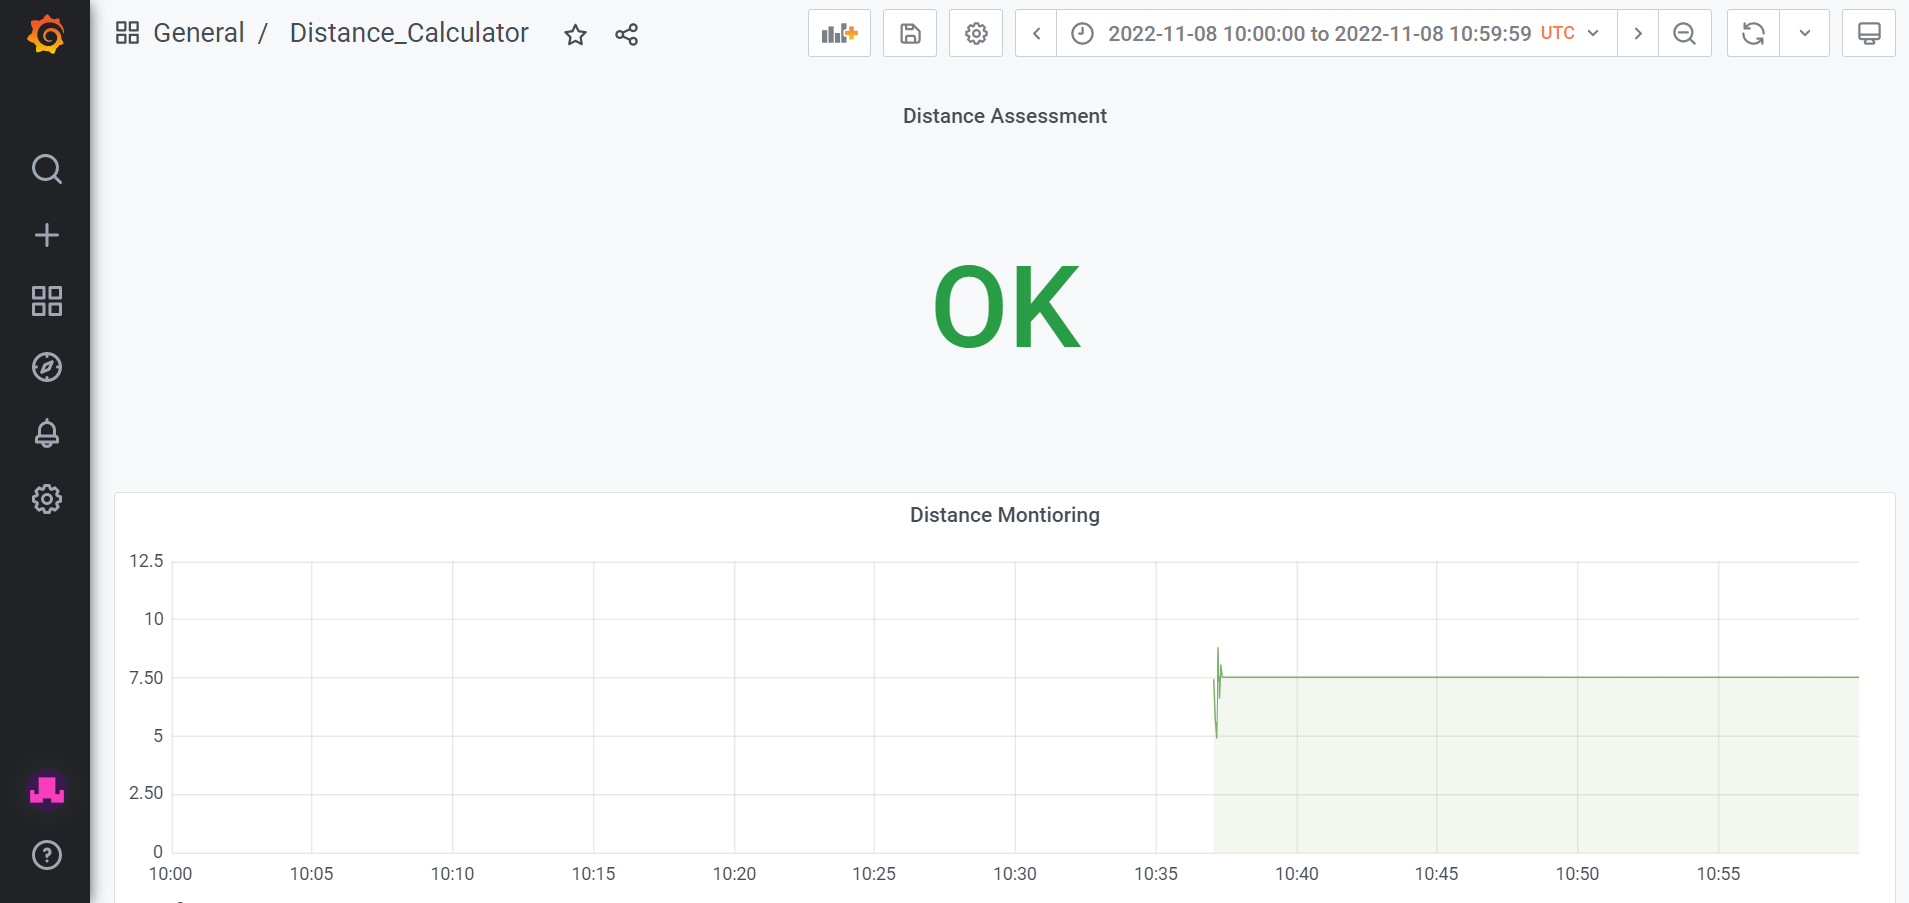
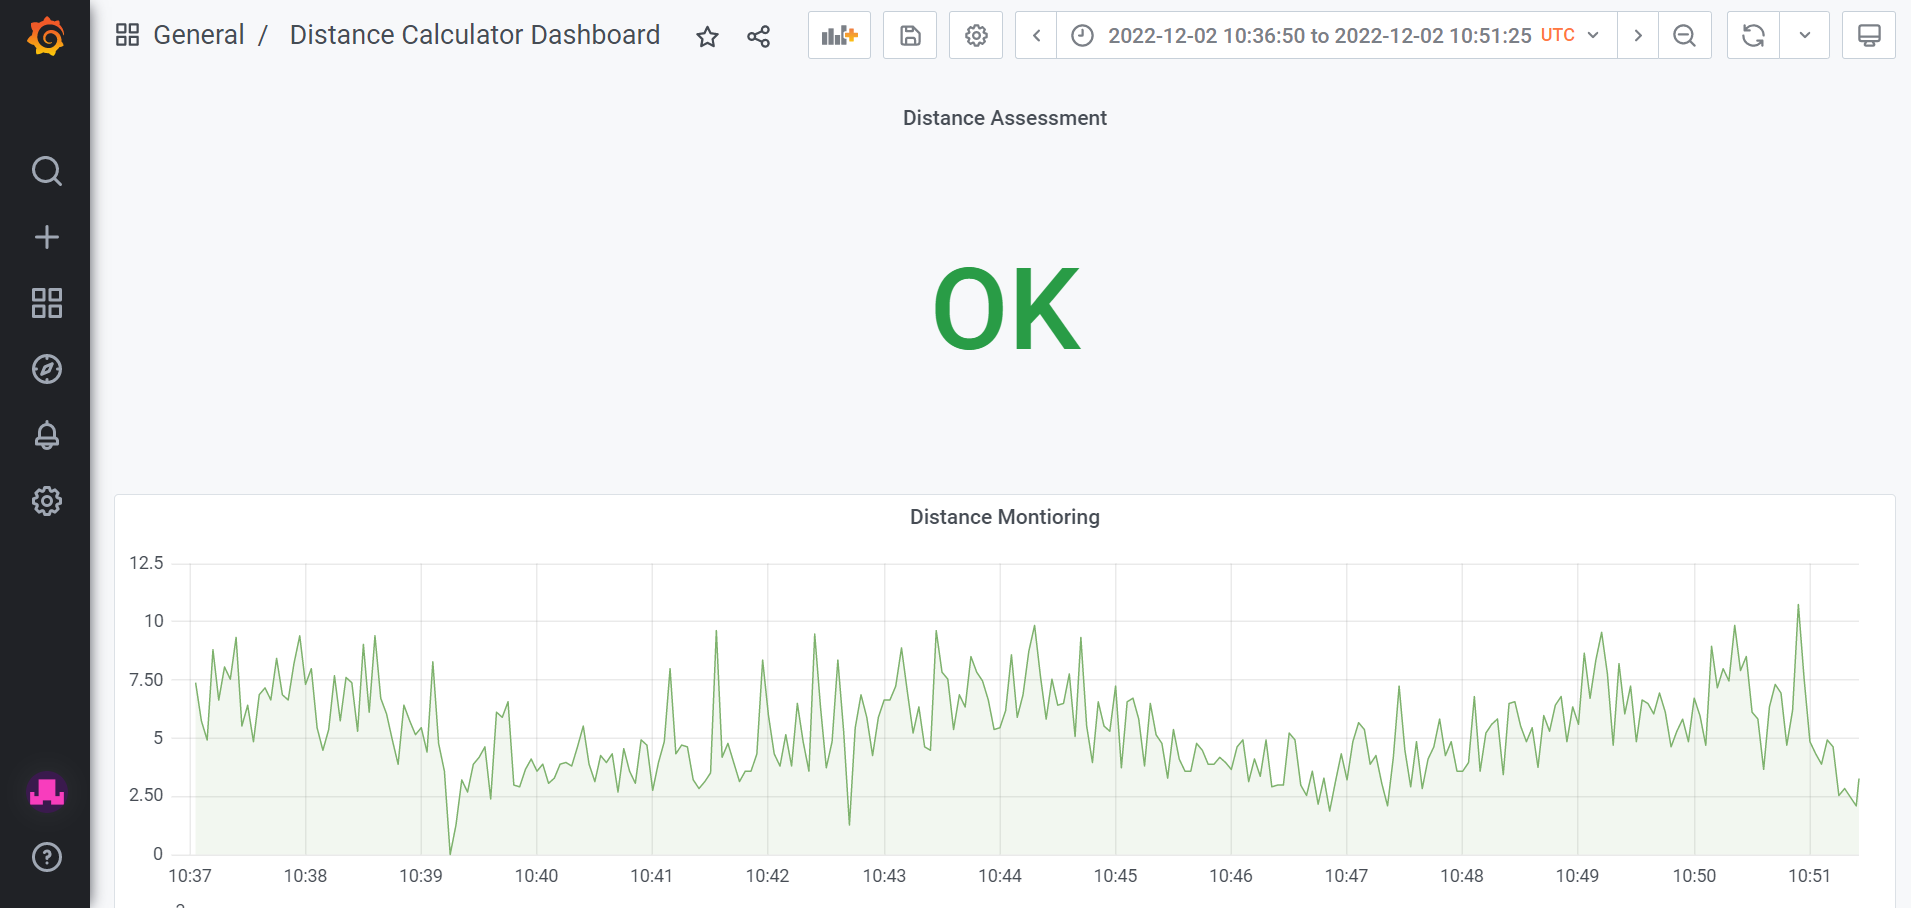
Distance calculator with helm (#14)

diff --git a/_posts/Demos/2022-11-11-distance-calculator.md b/_posts/Demos/2022-11-11-distance-calculator.md
@@ -52,39 +52,56 @@ This post demos how to make a distance calculator on Streaming Data Platform
 - SDP Running in a Cluster
 - Flink 1.15.2 runtime
 
-### Install using Helm chart
+### Setup distance calculator demo using Helm
+- The Helm charts for distance calculator demo is in
 ```
 cd sdp-starter-kit/distance-calculator/charts/
 ```
-- Edit and replace **flinkImage** variable in **calculator/values.yaml** with flink 1.15.2 runtime image name
+- Get all available runtime images using the below command.
 ```
 kubectl get runtimeimages -A
 ```
 ![setup15]({{site.baseurl}}/assets/heliumjk/images/post/distance-calculator-sdp/setup15.png)
 
-- Edit and replace **chartVersion** variable in **features/values.yaml** with tag
+  Update **flinkImage** variable in **calculator/values.yaml** with the runtime image name available for the flink version 1.15.2. 
+
+- Get **spec.values.image.tag** using below command.
 ```
-kubectl get projectfeature pravegamqttbroker -o jsonpath='{.spec.templates.pravegaMQTTBroker}'
+kubectl get projectfeature pravegamqttbroker --output="jsonpath={.spec.templates.pravegaMQTTBroker}"
 ```
 ![setup16]({{site.baseurl}}/assets/heliumjk/images/post/distance-calculator-sdp/setup16.png)
-- Install distance-calculator and mqtt-writer 
-```
-helm install features features/
-helm install calculator calculator/
-helm install mqttwriter mqttwriter/
-```
-- To visualize the grafana dashboard go to section **Get Influxdb Data Source** and **Adding Dashboard in Grafana**
 
-### Manual Install
+  Update **chartVersion** variable in **features/values.yaml** with **spec.values.image.tag**.
+- Deploy distance-calculator and mqtt-writer by running below script.
+```
+./deploy.sh <name_of_the_application>
+```
+  ex:- ./deploy.sh distance-calculator
 
-##### Compile distance-calculator project
+  Wait for few minutes until flink application starts
+- To visualize dashboard navigate to **Analytics** → **Your Project** → **Features**
+- Open **Metrics** endpoint
+![setup11]({{site.baseurl}}/assets/heliumjk/images/post/distance-calculator-sdp/setup11.png)
+- Hover on **Dashboard** and Click on **Manage**
+![setup12]({{site.baseurl}}/assets/heliumjk/images/post/distance-calculator-sdp/setup12.png)
+- Click on **Distance Calculataor Dashboard**
+![setup17]({{site.baseurl}}/assets/heliumjk/images/post/distance-calculator-sdp/setup17.png)
+- Below view can be observed
+![setup14]({{site.baseurl}}/assets/heliumjk/images/post/distance-calculator-sdp/setup14.png)
+
+  **Note:-** In case if you don't see any graph or button to **Zoom to Data**, Apply the time range of 10:37:00 to 11:00:00 for the current date
+![setup18]({{site.baseurl}}/assets/heliumjk/images/post/distance-calculator-sdp/setup18.png)
+
+### Setup distance calculator demo manually
+
+##### 1. Compile distance-calculator project
 - Use below command to package and create jar file
     ```
     cd distance-calculator
     mvn clean package
     ```
 
-##### Setup SDP 
+##### 2. Setup SDP 
 - Navigate to **Analytics**
 - Click on **New Project**
 - Select **Artifact Repository**, **Metrics**, **Pravega MQTT Broker**, **Zookeeper** from the **Features** dropdown
@@ -102,13 +119,13 @@ helm install mqttwriter mqttwriter/
 ![setup5]({{site.baseurl}}/assets/heliumjk/images/post/distance-calculator-sdp/setup5.png)
 - Upload the jar file from –> /<Project_Path>/distance-calculator/calculator/target/calculator-1.0.0.jar
 
-##### Create Flink Cluster
+##### 3. Create Flink Cluster
 - Navigate to **Analytics** → **Your Project** → **Flink** → **Create Flink Cluster**
 ![setup6]({{site.baseurl}}/assets/heliumjk/images/post/distance-calculator-sdp/setup6.png)
 - Select Flink version 1.15.2 and Click **Save** to create Flink Cluster
 ![setup7]({{site.baseurl}}/assets/heliumjk/images/post/distance-calculator-sdp/setup7.png)
 
-##### Run Flink application
+##### 4. Run Flink application
 - Click **File** 
 - Select **Main Application** from dropdown
 - Type main class as **io.pravega.flinkapp.DistanceCalculator**
@@ -116,7 +133,7 @@ helm install mqttwriter mqttwriter/
 - Click **Create** and wait for the app to Start 
 ![setup8]({{site.baseurl}}/assets/heliumjk/images/post/distance-calculator-sdp/setup8.png)
 
-##### Set the Environment variables
+##### 5. Set the Environment variables
 - **Note**: -  Edit **Distance.csv** and replace with current dates (To avoid retention policy error-- DATA is only valid for 7 days)
 Below Image shows replacing of dates to Today's date
 ![setup4]({{site.baseurl}}/assets/heliumjk/images/post/distance-calculator-sdp/setup4.png)
@@ -139,20 +156,20 @@ Below Image shows replacing of dates to Today's date
     export MQTT_PASSWORD=<MQTT_PASSWORD>
     ```
 
-##### Simulate the MQTT writer
+##### 6. Simulate the MQTT writer
 - Use below command to run MQTT writer simulator
     ```
     java -jar mqtt-writer\target\mqtt-writer-1.0.0.jar
     ```
 
-##### Get Influxdb Data Source
+##### 7. Get Influxdb Data Source
 - Navigate to **Analytics** → **Your Project** → **Features**
 ![setup9]({{site.baseurl}}/assets/heliumjk/images/post/distance-calculator-sdp/setup9.png)
 - Go to Setting → **Data Source** and  Get Influxdb Data Source name and copy **data_souce_name** (disatanceflink_flnk in below image)
 ![setup10]({{site.baseurl}}/assets/heliumjk/images/post/distance-calculator-sdp/setup10.png)
 - Edit dashboard.json and replace **datasource** value from ***test_flnk*** to **data_souce_name**
 
-##### Adding Dashboard in Grafana
+##### 8. Adding Dashboard in Grafana
 - Navigate to **Analytics** → **Your Project** → **Features**
 - Open **Metrics** endpoint
 ![setup11]({{site.baseurl}}/assets/heliumjk/images/post/distance-calculator-sdp/setup11.png)
